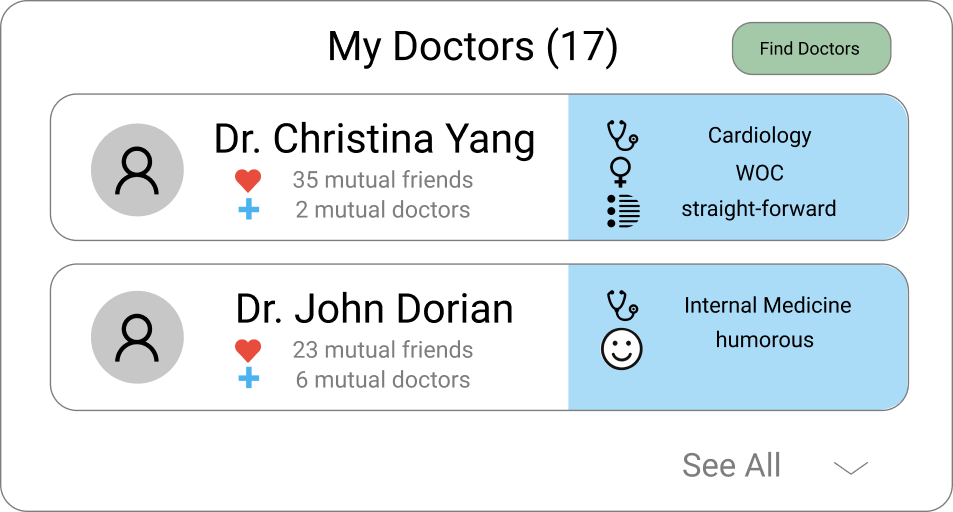
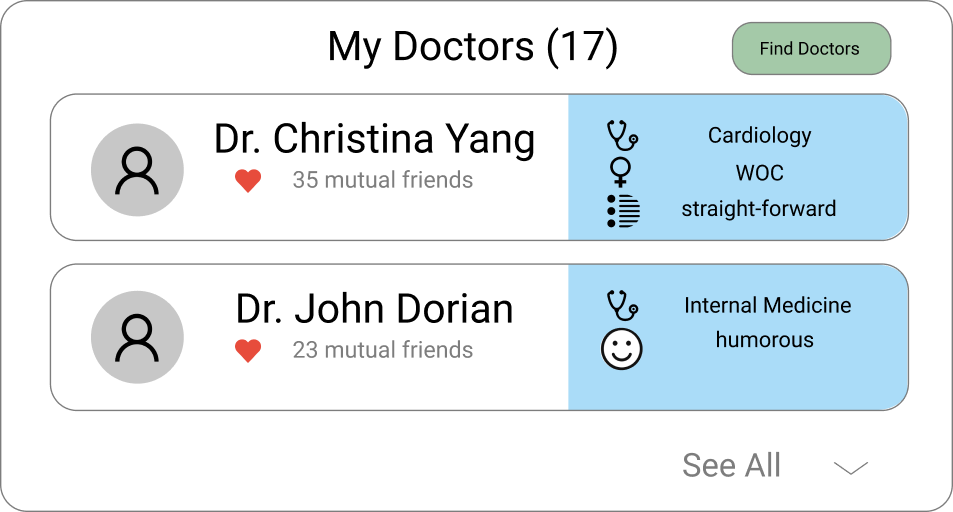
removed mutual doctors

diff --git a/templates/explore.html b/templates/explore.html
@@ -54,15 +54,13 @@
                                             <img src="/static/images/doctor-profile.png" height="50">
                                         </div>
                                         <div class="vertical-center-new">
-                                            <div class="link-doctor">{{post.link}}</div>
-                                            <div class="link-info">
-                                                <img src="/static/images/heart.png" width="20">
-                                                <div> &nbsp; {{doctors[post.link].mutual_friends}} mutual friends</div>
-                                            </div>
-                                            <div class="link-info">
-                                                <img src="/static/images/plus.png" width="20">
-                                                <div> &nbsp; {{doctors[post.link].mutual_doctors}} mutual doctors</div>
-                                            </div>
+                                            <a class="a:link" href=/visitors_profile>
+                                                <div class="link-doctor">{{post.link}}</div>
+                                                <div class="link-info">
+                                                    <img src="/static/images/heart.png" width="20">
+                                                    <div> &nbsp; {{doctors[post.link].mutual_friends}} mutual friends</div>
+                                                </div>
+                                            </a>
                                         </div>
                                     </div>
                                     <div class="link-right">
@@ -133,10 +131,6 @@
                                             <div class="link-info">
                                                 <img src="/static/images/heart.png" width="20">
                                                 <div> &nbsp; {{top_doctors[doctor].mutual_friends}} mutual friends</div>
-                                            </div>
-                                            <div class="link-info">
-                                                <img src="/static/images/plus.png" width="20">
-                                                <div> &nbsp; {{top_doctors[doctor].mutual_doctors}} mutual doctors</div>
                                             </div>
                                         </div>
                                     </div>

diff --git a/templates/patient_profile.html b/templates/patient_profile.html
@@ -161,10 +161,6 @@
                                         <div><img class="small-heart" src="/static/images/heart.png"></div>
                                         <div class="doc-mutual-friends-text">35 mutual friends</div>
                                     </div>
-                                    <div class="doc-info">
-                                        <div><img class="small-plus" src="/static/images/plus.png"></div>
-                                        <div class="doc-mutual-friends-text">2 mutual doctors</div>
-                                    </div>
                                 </div>
                                 <div class="link-info">
                                 </div>
@@ -188,10 +184,6 @@
                                     <div class="doc-info">
                                         <div><img class="small-heart" src="/static/images/heart.png"></div>
                                         <div class="doc-mutual-friends-text">23 mutual friends</div>
-                                    </div>
-                                    <div class="doc-info">
-                                        <div><img class="small-plus" src="/static/images/plus.png"></div>
-                                        <div class="doc-mutual-friends-text">6 mutual doctors</div>
                                     </div>
                                 </div>
                                 <div class="link-info">

diff --git a/templates/visitors_profile.html b/templates/visitors_profile.html
@@ -42,19 +42,12 @@
           <a href="#"
             ><img src="/static/images/heart.png" />friends<span>352</span></a
           >
-          <a href="#"
-            ><img src="/static/images/plus.png" />doctors<span>103</span></a
-          >
         </div>
         <div class="endorsements">
           <a href="#"><img src="/static/images/check.png" />endorsements</a>
           <a href="#">
             <img src="/static/images/grey_user_icon.png" />
             <span>35 mutual friends</span>
-          </a>
-          <a href="#">
-            <img class="contain-img" src="/static/images/doctor.png" />
-            <span>2 mutual doctors</span>
           </a>
         </div>
       </div>

diff --git a/templates/doctor_matches.html b/templates/doctor_matches.html
@@ -49,9 +49,6 @@
                                     <div class="link-info">
                                         <div>{{doctors[doctor].mutual_friends}} mutual friends</div>
                                     </div>
-                                    <div class="link-info">
-                                        <div>{{doctors[doctor].mutual_doctors}} mutual doctors</div>
-                                    </div>
                                 </div>
                             </div>
                             <div class="link-right">

diff --git a/templates/community_page.html b/templates/community_page.html
@@ -55,8 +55,6 @@
                                 <div class="doc-mutual-friends-text">35 mutual friends</div>
                             </div>
                         </div>
-                        <div class="link-info">
-                        </div>
                     </div>
                 </div>
                 <div class="link-right">

diff --git a/static/styles/patient_profile.css b/static/styles/patient_profile.css
@@ -593,7 +593,7 @@ body {
 }
 
 .doc-info {
-    margin: auto auto auto 20;
+    margin: auto auto auto 10;
     height: 23px;
     display: flex;
 }

diff --git a/static/styles/community_page.css b/static/styles/community_page.css
@@ -204,7 +204,7 @@ html {
 }
 
 .doc-info {
-    margin: 10 auto auto 30;
+    margin: 10 auto auto 20;
     height: 23px;
     display: flex;
 }

diff --git a/static/styles/explore.css b/static/styles/explore.css
@@ -164,6 +164,7 @@ html {
     font-size: 15px;
     color: #7D7D7D;
     margin-left: 10px;
+    margin-top: 5;
 }
 
 .link-attribute {
